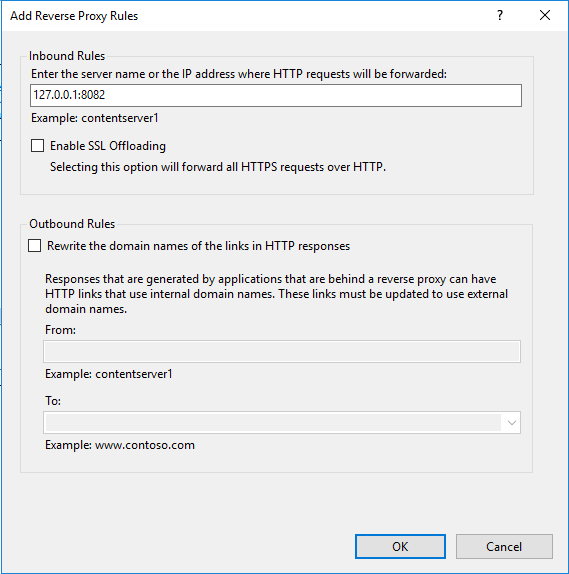
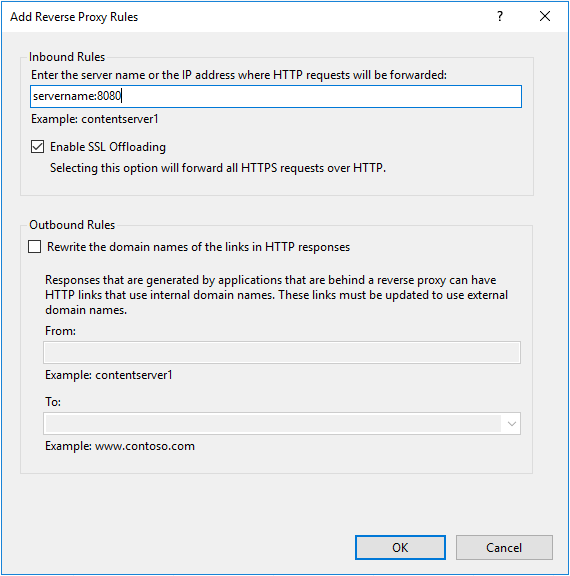
Fine tuning and pedantry :)

diff --git a/docs/how-to/use-iis-as-reverse-proxy.md b/docs/how-to/use-iis-as-reverse-proxy.md
@@ -13,10 +13,10 @@ This example assumes:
 
 Our starting configuration:
 
-- Octopus Deploy installed and running on http://servername:8080/
+- Octopus Deploy installed and running on <http://servername:8080/>
    For guidance on this topic, see [Installing Octopus](https://octopus.com/docs/installation/installing-octopus).
-- Valid SSL certificate installed in Local Certificate store
-   For guidance on this topic, please follow [this MSDN article](https://msdn.microsoft.com/en-us/library/ff720335.aspx).
+- Valid SSL certificate installed in the Local Certificate store.
+   For guidance on this topic, please follow [Importing your SSL certificate](https://octopus.com/docs/how-to/expose-the-octopus-web-portal-over-https#ExposetheOctopuswebportaloverHTTPS-ImportingyourSSLcertificate).
 - IIS Management Console installed.
    For guidance on this topic, please follow [this Microsoft Docs article](https://docs.microsoft.com/en-us/iis/install/installing-iis-85/installing-iis-85-on-windows-server-2012-r2).
 
@@ -29,9 +29,9 @@ At the end of this walkthrough, you should be able to:
 
 URLRewrite and Application Request Routing are provided by the [Microsoft Web Platform Installer](http://download.microsoft.com/download/C/F/F/CFF3A0B8-99D4-41A2-AE1A-496C08BEB904/WebPlatformInstaller_amd64_en-US.msi). After installing the Web Platform Installer, search for "URL Rewrite" and "Application Request Routing", and install.
 
-Alternatively, use the following PowerShell snippet
+Alternatively, use the following PowerShell snippet:
 
-```
+```powershell
 $downloadUrl = "http://download.microsoft.com/download/C/F/F/CFF3A0B8-99D4-41A2-AE1A-496C08BEB904/WebPlatformInstaller_amd64_en-US.msi"
 $downloadtarget = ([uri]$downloadUrl).segments | select -last 1
 Invoke-WebRequest $downloadUrl -OutFile $env:tmp\$downloadtarget
@@ -40,55 +40,55 @@ Set-Location ($env:ProgramFiles + "\Microsoft\Web Platform Installer")
 .\WebpiCmd.exe /Install /Products:'UrlRewrite2,ARRv3_0' /AcceptEULA /Log:$env:tmp\WebpiCmd.log
 ```
 
-## Configure SSL on the default site
+## Configure SSL on Default Web Site
 
-Open the IIS Management Console (inetmgr.exe)
+1. Open the IIS Management Console (`inetmgr.exe`)
 
-Navigate to the Default Web Site
+1. Navigate to the Default Web Site
 
-In the action pane, click on "Bindings"
+1. In the action pane, click on "Bindings"
 
-Click "Add"
+1. Click "Add"
 
-Select "https"
+1. Select "https"
 
-A dropdown box will appear with your installed certificates displayed
+1. A dropdown box will appear with your installed certificates displayed
 
-Select your installed certificate. If you don't see your certificate listed, refer back to [this MSDN Article](https://msdn.microsoft.com/en-us/library/ff720335.aspx)
+1. Select your installed certificate. If you don't see your certificate listed, refer back to [this MSDN Article](https://msdn.microsoft.com/en-us/library/ff720335.aspx)
 
-Optional: Fill in your correct IP address and/or hostname, and click "OK"
+1. Optional: Fill in your correct IP address and/or hostname, and click "OK"
 
-Optional: Remove the HTTP (non-SLL) binding
+1. Optional: Remove the HTTP (non-SSL) binding - this a recommended security practice
 
 ## Verify SSL is correctly configured
 
-In a web browser, navigate to https://servername (note the 's')
+In a web browser, navigate to <https://servername> (note the 's').
 
-You should see the IIS default page displayed in your browser
+You should see the IIS default page displayed in your browser.
 
 ![IIS Default Page](/docs/images/reverse-proxy/default-page.png)
 
-## Configure URLRewrite 
+## Configure URLRewrite
 
 :::success
 After installing URLRewrite and ARR, you may need to restart IIS and/or the IIS Management Console to ensure that the URLRewite icon appears correctly
 :::
 
-Open the IIS Mangement Console (inetmgr.exe)
+Open the IIS Management Console (`inetmgr.exe`).
 
-Navigate to the Default Web Site
+Navigate to the Default Web Site.
 
 Click on the URLRewrite icon to bring up the URLRewrite interface.
 
-In the action pane, click on "Add Rule(s)"
+In the action pane, click on "Add Rule(s)".
 
-Under "Select a Rule Template", choose "Reverse Proxy"
+Under "Select a Rule Template", choose "Reverse Proxy".
 
-![Adding a Reverse Proxy Rule in URL Rewrite](/docs/images/reverse-proxy/addrule.png)
+![Adding a Reverse Proxy Rule in URL Rewrite](/docs/images/reverse-proxy/addrules.png).
 
 If you have never enabled reverse proxy functionality before, you'll be prompted to enable it.
 
-In the "Add Reverse Proxy Rules" dialog, specify the URL of your backend Octopus Server in "Inbound Rules". In our example, this is `servername:8080`. 
+In the "Add Reverse Proxy Rules" dialog, specify the URL of your backend Octopus Server in "Inbound Rules". In our example, this is `servername:8080`.
 
 Select "Enable SSL offloading".
 
@@ -97,46 +97,47 @@ Cick OK.
 ![Configuring a Reverse Proxy Rule](/docs/images/reverse-proxy/rprules.png)
 
 :::success
-There is no need to specify outbound rules, as the Octopus Portal always uses relative links
+There is no need to specify outbound rules, as the Octopus Portal always uses relative links.
 :::
 
-Click OK and close down all dialogs
+Click OK and close down all dialogs.
 
 You should now be able to navigate to https://servername/ in your browser and log in to Octopus Deploy.
 
 :::warning
 **Polling Tentacles are not supported with this scenario**
-Polling tentacles communicate with the Octopus Server over an end-to-end encrypted channel. This solution does not currently support polling tentacles
+Polling tentacles communicate with the Octopus Server over an end-to-end encrypted channel. This solution does not currently support polling tentacles.
 :::
 
-## Add a Custom HTTP header in IIS
+## Example: Add a Custom HTTP header in IIS
 
-Open the IIS Management Console (inetmgr.exe)
+Open the IIS Management Console (`inetmgr.exe`).
 
-Navigate to the Default Web Site
+Navigate to the Default Web Site.
 
-In the Main window, navigate to "HTTP Response Headers"
+In the Main window, navigate to "HTTP Response Headers".
 
-In the action pane, click "add"
+In the action pane, click "add".
 
-In the dialog, enter the following
+In the dialog, enter the following.
 
-- Name: **x-octopus-servedby**
-- Value: **IIS**
+- Name: `x-octopus-servedby`
+- Value: `IIS`
 
-Click OK
+Click OK.
 
 ## Verify the custom HTTP Header
 
-Open a PowerShell prompt
+Open a PowerShell prompt.
 
-Type the following command (replacing 'servername' as appropriate)
+Type the following command (replacing 'servername' as appropriate):
 
+```powershell
+Invoke-WebRequest https://servername | select -expand Headers
 ```
-Invoke-WebRequest https://servername | select -expand Headers 
-```
 
-You should see your x-octopus-servedby header listed in the returned headers
+You should see your `x-octopus-servedby` header listed in the returned headers.
+
 
 
 
